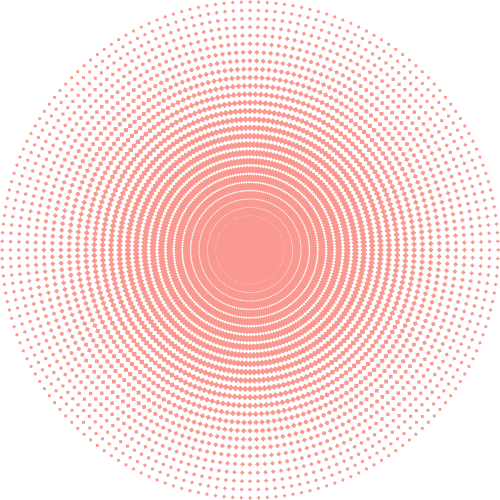
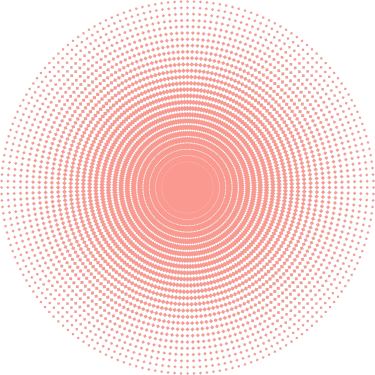
feat: Adiciona seção HOBBIES com background e icones
- texto sobre meus hobbies em LOREM
- adicionado svg sem identificação com a tag title
- add ao HEADER nav o ID #hobbies
- ajusta tamanho da img circle-red

diff --git a/index.html b/index.html
@@ -44,7 +44,7 @@
       </div>
 
       <div class="navegacao segundo">
-        <a href="./index.html#">Hobbies</a>
+        <a href="./index.html#hobbies">Hobbies</a>
         <a href="./index.html#">Motivações</a>
       </div>
 
@@ -252,6 +252,124 @@
               </svg>
             </div>
           </div>
+        </div>
+      </section>
+      <section id="hobbies" class="secao hobbies">
+        <div class="container">
+          <img
+            class="icone-bg esquerda"
+            src="assets/png/seta-red-esquerda.png"
+            alt="icone de seta cor vermelha - esquerda"
+          />
+          <img
+            class="icone-bg direita"
+            src="assets/png/seta-red-direita.png"
+            alt="icone de seta cor vermelha - direita"
+          />
+          <h2 class="direita">HOBBIES</h2>
+          <div class="meus-hobbies">
+            <div class="hobbie">
+              <svg viewBox="0 0 64 64">
+                <path
+                  d="M56.933 48.137c-.711-3.016-3.234-9.021-4.796-11.799c-.51-.907-2.681-1.611-5.757-2.115c-.23-1.943-3.144-3.104-6.615-3.574V22.07c3.908-1.511 6.682-5.27 6.682-9.676C46.446 6.654 41.751 2 35.96 2c-5.792 0-10.487 4.654-10.487 10.395c0 4.406 2.773 8.165 6.682 9.676v8.594c-2.916.41-5.418 1.312-6.234 2.758c-.742.036-1.452.088-2.164.138c-.975-.755-2.679-1.239-4.71-1.239c-3.185 0-5.586 1.182-5.586 2.748v.188c-.808.321-1.375.68-1.601 1.081c-1.561 2.777-4.086 8.783-4.797 11.799c-.381 1.615 1.109 9.305 1.109 9.305C8.59 59.949 11.016 62 13.564 62h36.841c2.548 0 4.975-2.051 5.393-4.559c0 0 1.539-7.591 1.135-9.304M37.765 22.623v10.652c-.387.098-1.004.194-1.805.194s-1.418-.097-1.805-.194V22.623c.588.101 1.188.164 1.805.164s1.217-.063 1.805-.164m-5.61 10.068v1.387c0 .928 1.903 1.392 3.805 1.392s3.805-.464 3.805-1.392v-1.404c3.047.465 4.64 1.402 4.64 1.795c0 .531-2.883 2.068-8.385 2.068c-5.503 0-8.387-1.537-8.387-2.068c-.001-.388 1.551-1.307 4.522-1.778m-4.678 4.221c2.004 1.103 5.348 1.625 8.542 1.625s6.537-.522 8.541-1.625c.721.375 1.096.741 1.096.994c0 .76-3.278 2.541-9.637 2.541s-9.637-1.781-9.637-2.541c0-.253.374-.619 1.095-.994m-1.879 3.123c2.009 1.588 6.228 2.412 10.421 2.412c4.192 0 8.411-.824 10.421-2.411c.295.297.467.591.467.86c0 1.42-4.241 3.482-10.888 3.482c-6.648 0-10.889-2.063-10.889-3.482c0-.269.173-.563.468-.861m-6.552-6.715c2.624 0 4.584.923 4.584 1.748c0 .824-1.96 1.746-4.584 1.746c-2.625 0-4.586-.922-4.586-1.746c0-.825 1.962-1.748 4.586-1.748m-4.586 3.349c.992.701 2.639 1.146 4.586 1.146c1.946 0 3.593-.444 4.584-1.146v1.454c-.794.812-2.562 1.328-4.584 1.328c-2.023 0-3.792-.517-4.585-1.328v-1.454zm-4.194 11.308c.474.129.936.188 1.435.16l1.551-.084c2.081-.094 4.162-.182 6.244-.236c4.163-.129 8.326-.164 12.488-.178c4.164.016 8.327.051 12.49.18c2.081.055 4.163.143 6.244.238l1.56.082c.477.027.959-.031 1.427-.16a5.19 5.19 0 0 0 2.424-1.563a4.78 4.78 0 0 1-2.23 1.98a4.696 4.696 0 0 1-1.616.373l-1.563.084a325.6 325.6 0 0 1-6.244.236c-4.163.131-8.326.166-12.49.182c-4.162-.014-8.325-.049-12.488-.18a342.386 342.386 0 0 1-6.244-.234l-1.571-.086a4.683 4.683 0 0 1-1.608-.375a4.771 4.771 0 0 1-2.23-1.98a5.172 5.172 0 0 0 2.421 1.561m43.438 3.89a4.407 4.407 0 0 0-1.434-.162l-1.552.084c-2.082.096-4.163.184-6.245.236c-4.162.131-8.325.166-12.489.18c-4.163-.016-8.326-.051-12.488-.182a342.846 342.846 0 0 1-6.245-.236l-1.56-.082a4.428 4.428 0 0 0-1.426.16a5.19 5.19 0 0 0-2.424 1.563a4.783 4.783 0 0 1 2.231-1.98a4.64 4.64 0 0 1 1.616-.373l1.563-.086c2.082-.094 4.163-.182 6.245-.234c4.162-.131 8.325-.166 12.488-.184c4.164.016 8.327.051 12.489.18c2.082.055 4.163.143 6.245.236l1.571.086c.543.031 1.12.156 1.608.373a4.785 4.785 0 0 1 2.23 1.982a5.168 5.168 0 0 0-2.423-1.561"
+                ></path>
+              </svg>
+              <h3>Jogar</h3>
+            </div>
+
+            <div class="hobbie">
+              <svg viewBox="0 0 122.562 122.562">
+                <g>
+                  <g>
+                    <path
+                      d="M59.375,14.197c0.749,6.289,6.094,11.168,12.583,11.168c7.005,0,12.683-5.679,12.683-12.683
+			C84.641,5.678,78.963,0,71.958,0c-6.579,0-11.986,5.011-12.617,11.424c0.056,0.517,0.088,1.041,0.088,1.573
+			C59.428,13.402,59.407,13.801,59.375,14.197z"
+                    />
+                    <path
+                      d="M71.978,25.815c-1.275-0.01-3.083,0.25-3.083,0.25c-0.011,0.002-0.021,0.003-0.029,0.005
+			c-2.404,0.575-4.738,1.81-6.54,3.548c0.58,0.043,1.166,0.072,1.771,0.072c4.424,0,9.026-1.601,10.318-2.099
+			c0,0,1.405-0.707,1.067-1.385c-0.122-0.033-0.241-0.032-0.363-0.062C75.118,26.145,73.254,25.824,71.978,25.815z"
+                    />
+                    <path
+                      d="M84.344,34.701c2.106-2.477,1.697-5.343,0.358-7.084c-1.66-2.155-4.752-2.559-6.902-0.9
+			c-0.672,0.515-1.173,1.169-1.493,1.889c-3.19,1.765-13.542,4.682-21.971,0.128c-0.163-0.088-0.33-0.164-0.496-0.232
+			c-1.56-1.154-3.372-1.99-5.227-2.433c-0.011-0.002-0.021-0.003-0.032-0.005c0,0-1.598-0.257-3.04-0.252
+			c-1.439,0.004-3.179,0.287-3.179,0.287c-1.585,0.39-3.143,1.06-4.533,1.973c-0.169,0.079-0.345,0.145-0.507,0.245
+			c-6.228,3.819-25.176,15.44-11.283,40.974c0.893,1.641,2.582,2.571,4.328,2.571c0.796,0,1.603-0.194,2.349-0.601
+			c0.386-0.207,0.726-0.465,1.027-0.752l0.007,43.266l-0.003,2.961c-0.002,3.214,2.557,5.82,5.77,5.824h0.005
+			c3.211,0,5.861-2.603,5.863-5.813l-0.008-40.444c0.047,0,0.094,0.006,0.143,0.006c0.229,0,0.458-0.019,0.685-0.029l-0.011,12.76
+			l0.016,0.008v27.694c0,3.214,2.604,5.819,5.818,5.819c3.213,0,5.819-2.604,5.819-5.819V72.283L57.85,69.6
+			c0-0.268-0.023-0.527-0.06-0.785c0.451-1.137,0.708-2.372,0.708-3.697v-24.66c2.086,0.381,4.169,0.562,6.199,0.562
+			C73.815,41.02,81.865,37.611,84.344,34.701z M32.538,59.962c-2.303-6.019-1.881-10.522,0-14.078V59.962z"
+                    />
+                    <circle cx="45.518" cy="12.682" r="12.682" />
+                    <path
+                      d="M97.512,15.637c-2.667-0.514-5.247,1.229-5.769,3.895c-0.748,3.843-3.828,14.401-9.206,18.808
+			c-4.037,2.596-10.966,4.785-18.4,4.785c-1.471,0-2.945-0.091-4.41-0.27c0,0-0.408,23.324-0.349,24.214
+			c0.058,0.89,0.208,1.496,0.307,1.745c-0.034,0.256-0.058,0.515-0.058,0.781l0.002,47.146c0,3.213,2.605,5.819,5.818,5.818
+			c3.216,0,5.819-2.605,5.819-5.819l-0.003-40.462c0.23,0.011,0.461,0.029,0.692,0.029c0.045,0,0.091-0.004,0.138-0.006
+			l-0.002,40.439c0,3.214,2.604,5.819,5.818,5.819c3.213,0,5.818-2.604,5.818-5.819l0.003-47.77
+			c1.123-0.502,0.998-2.586,0.998-2.586l-0.05-17.257l3.021-2.321c9.946-7.114,13.354-23.554,13.711-25.41
+			C101.926,18.729,100.18,16.153,97.512,15.637z"
+                    />
+                  </g>
+                </g>
+              </svg>
+              <h3>Amigos</h3>
+            </div>
+            <div class="hobbie">
+              <svg viewBox="0 0 256 258">
+                <path
+                  d="M84.2,2.3c18.7,0,33.8,15.1,33.8,33.8s-15.1,33.8-33.8,33.8S50.4,54.7,50.4,36.1S65.5,2.3,84.2,2.3z M188.8,151.4
+             c4.3,0,7.8,2.2,7.8,5s-3.5,5-7.8,5c-4.3,0-7.8-2.2-7.8-5S184.5,151.4,188.8,151.4z M149.3,112.1l-3.9,11.1c-4-8.3-8-16.3-11.1-21.8
+             c-3.4-7.2-8.7-13.3-15.3-17.6c-6.6-4.3-14.5-6.8-22.9-6.8H44.2C20.9,76.9,2,96,2,119.1V183c0,9.8,7.9,17.7,17.7,17.7h202.7
+             l31.6-88.6H149.3z M215.5,190.9H88.6v-5.7c0-8.8-7.2-16-16-16H33.5v-43.3c0-2.2,1.8-3.9,3.9-3.9s3.9,1.8,3.9,3.9v35.4h31.2
+             c12.4,0,22.6,9.5,23.8,21.7h38.1l21.7-61H240L215.5,190.9z"
+                />
+              </svg>
+              <h3>Programar</h3>
+            </div>
+            <div class="hobbie">
+              <svg viewBox="0 0 512 512">
+                <g>
+                  <g>
+                    <path
+                      d="M30.183,151.899C13.54,151.899,0,165.439,0,182.082v147.835c0,16.643,13.54,30.183,30.183,30.183h20.253V151.899H30.183z"
+                    />
+                  </g>
+                </g>
+                <g>
+                  <g>
+                    <path
+                      d="M417.164,120.41h-65.84c-16.643,0-30.183,13.54-30.183,30.183v87.293H190.858v-87.293
+			c0-16.643-13.54-30.183-30.182-30.183h-65.84c-16.643,0-30.183,13.54-30.183,30.183v210.814c0,16.643,13.54,30.183,30.183,30.183
+			h65.84c16.643,0,30.182-13.54,30.182-30.183v-87.301h130.283v87.301c0,16.643,13.54,30.183,30.183,30.183h65.84
+			c16.643,0,30.183-13.54,30.183-30.183V150.593C447.347,133.95,433.808,120.41,417.164,120.41z"
+                    />
+                  </g>
+                </g>
+                <g>
+                  <g>
+                    <path
+                      d="M481.817,151.899h-20.253v208.202h20.253c16.643,0,30.183-13.54,30.183-30.183V182.082
+			C512,165.439,498.46,151.899,481.817,151.899z"
+                    />
+                  </g>
+                </g>
+              </svg>
+              <h3>Academia</h3>
+            </div>
+          </div>
+          <p>
+            Lorem, ipsum dolor sit amet consectetur adipisicing elit. Eum
+            eveniet saepe aspernatur facere aperiam adipisci, ab nam, omnis
+            consequatur quod laboriosam at sed. Ratione enim magnam sapiente
+            quam aspernatur doloribus? Lorem ipsum dolor sit amet consectetur
+            adipisicing elit. Maxime, magnam? Voluptatem modi omnis porro,
+            repudiandae suscipit quibusdam provident quo. Totam dicta debitis
+            alias molestias necessitatibus ratione odit minus assumenda velit.
+          </p>
         </div>
       </section>
     </main>
